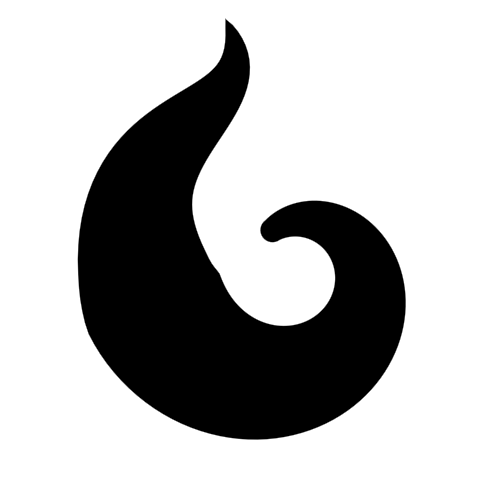
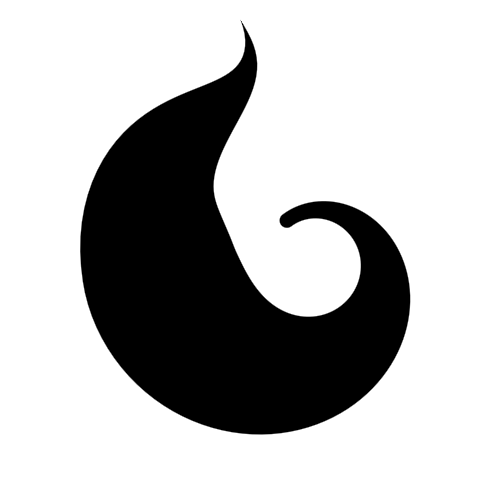
Icone: l'Aura senza gomiti, lo scudo col muro uniforme, le metafore rilette
Bru: «impegnati al massimo per definire ancora meglio le nostre icone»

Viste in grande (a 640 pixel, sulla griglia):
- Aura: lo spessore del tratto cresceva e calava con uno spigolo, e lo
  spigolo diventava un gomito nel contorno dove la coda entra nel ricciolo.
  Ora sale e scende liscio (un seno alla 1,5 sulla coda, uno smoothstep sul
  ricciolo); la punta della coda si affina come una pennellata, la fine del
  ricciolo è tonda e sottile. Ricentrata.
- Difesa: sotto le feritoie il muro era 14 contro i 10 dei fianchi, ora T.
- Forza mentale: l'anello disegnato con 96 lati misura 5 esatti.

docs/icone_statistiche.md riporta anche la distanza più corta fra due
contorni, grande e piccola. docs/simboli.md §7.5 rilegge le metafore con le
ricerche sul riconoscimento (McDougall e Isherwood: all'inizio conta la
distanza semantica, poi la familiarità) e con le convenzioni dei giochi.

Fuori dal commit, una tavola di alternative per la Velocità (galloni, freccia
con l'eco) accanto alla saetta degli status: il fulmine resta il più forte.

Prova delle icone: i sedici sabotaggi presi tutti. Suite verde.

Claude-Session: https://claude.ai/code/session_01AE7uzpDH1Lo1PHb29aXJxZ

diff --git a/docs/simboli.md b/docs/simboli.md
@@ -724,6 +724,14 @@ La prova `prova_le_icone_si_reggono` controlla tutto questo:
   resta qualche unità fuori: la punta conta nell'ingombro più di quanto pesi.
 - L'Attacco è il più sparso (raggio +7%): una spada di sbieco con la sua
   falce occupa la diagonale. Più piccola diventava tozza; ho scelto la forma.
+- **Le rifiniture viste in grande** (a 640 pixel, sulla griglia):
+  - L'Aura aveva un gomito dove la coda entra nel ricciolo: lo spessore
+    cresceva e calava con uno spigolo, e lo spigolo passava nel contorno. Ora
+    sale e scende con curve lisce, e la punta della coda si affina come una
+    pennellata.
+  - Lo scudo aveva in cima, sotto le feritoie, un muro di 14 contro i 10 dei
+    fianchi: ora è 10.
+  - L'anello della lanterna è disegnato con più lati, così misura 5 esatti.
 - **Due somiglianze col resto del gioco, da decidere.** In combattimento i
   riquadri degli status (`scripts/combattimento/IconeStato.gd`, dal disegno di
   Bru) usano la fiamma per «in fiamme» e la saetta per «lentezza», «frastornato»
@@ -735,3 +743,40 @@ La prova `prova_le_icone_si_reggono` controlla tutto questo:
 
   Sono contesti diversi (la scheda e la crescita da una parte, la vita in
   battaglia dall'altra), ma lo stesso gioco.
+
+### 7.5 Le metafore, rilette con le ricerche sul riconoscimento
+
+- **McDougall e Isherwood (2009, *Behavior Research Methods*).** All'inizio
+  conta la **distanza semantica**, cioè quanto l'icona è vicina a quello che
+  vuol dire: spiega fino al 55% di quanto bene si riconosce. Con l'uso conta
+  di più la familiarità.
+- **Zheng, Silvennoinen e Kujala (Jyväskylä).** La concretezza è quello che
+  avvicina di più un'icona al suo significato; la bellezza aiuta poco l'uso.
+- **Le convenzioni dei giochi** (Improbable Island, OpenGameArt, Inkwell):
+  - cuore per la vita, spada per l'attacco, scudo per la difesa;
+  - per la velocità il classico è lo stivale alato (o le impronte);
+  - per l'intelligenza e la volontà non c'è un segno fisso.
+
+| statistica | la nostra figura | distanza dal significato | perché va bene lo stesso |
+|---|---|---|---|
+| Vita | cuore | vicinissima | la convenzione più forte che c'è |
+| Attacco | spada | vicina | la convenzione |
+| Difesa | scudo | vicina | la convenzione |
+| Velocità | fulmine | media (il classico è lo stivale alato) | il fulmine era già nel gioco per la velocità; la scia dice il movimento |
+| Intelligenza | occhio con serratura | media | nel gioco è la fuga: vedere la via d'uscita |
+| Forza mentale | lanterna | lontana | si impara; e nella scheda il nome sta sempre accanto all'icona |
+| Fattore | fuoco con l'emblema | lontana | è un concetto solo di Carnivalz: nessuna icona nota lo dice |
+| Maestria | corona con la barra | media | la corona è la maestria; la barra lega il segno al dominio |
+| Aura | ricciolo con la coda | lontana | l'energia che si spende; lo hitodama dà al segno una storia |
+
+Le ricerche dicono che le figure lontane si imparano con l'uso. Nella scheda e
+nella crescita il nome sta sempre accanto all'icona: l'icona deve farsi
+riconoscere al secondo sguardo, non spiegarsi da sola. Le tre statistiche che
+si guardano di più (vita, attacco, difesa) sono anche quelle con le figure più
+vicine.
+
+**I contorni e i pieni.** Le regole dei set chiedono uno stile solo: o tratto
+o pieno. Le nostre sono pieni coi tagli. Dove l'oggetto ha un bordo (l'occhio,
+lo scudo, la lanterna) il bordo è spesso T, sempre lo stesso: è il pieno di un
+oggetto che ha un bordo, non un'icona a tratto. La lanterna ha i montanti
+spessi T e i traversi spessi C, come i telai veri.

diff --git a/docs/icone_statistiche.md b/docs/icone_statistiche.md
@@ -22,17 +22,17 @@ taglio.
 
 | icona | le due figure | pienezza | dalla media | raggio | dalla media | centro visivo | ingombro (unità) |
 |---|---|---|---|---|---|---|---|
-| Punti vita | il cuore + la cicatrice cucita | 0.311 | +4.8% | 26.0 | -3.4% | +0.1, -1.6 | da 11.0,17.0 a 89.0,87.0 |
-| Attacco | la spada + il fendente | 0.278 | -6.4% | 28.9 | +7.2% | -0.6, -1.6 | da 12.0,10.5 a 93.7,91.9 |
-| Difesa | lo scudo + i merli | 0.293 | -1.3% | 27.8 | +3.3% | +0.0, -2.4 | da 20.0,10.0 a 80.0,92.0 |
-| Velocità | il fulmine + la sua eco | 0.305 | +2.9% | 25.3 | -6.0% | +1.3, -3.5 | da 11.0,8.0 a 91.8,96.0 |
-| Intelligenza | l'occhio + la serratura | 0.311 | +4.9% | 27.1 | +0.6% | +0.0, -0.1 | da 4.0,20.0 a 96.0,80.0 |
-| Forza mentale | la lanterna + il fuoco | 0.284 | -4.3% | 28.1 | +4.3% | +0.0, +0.7 | da 21.0,4.0 a 79.0,91.0 |
-| Fattore | il fuoco + l'emblema | 0.294 | -1.0% | 25.2 | -6.4% | +1.0, +1.5 | da 23.1,4.0 a 76.9,92.0 |
-| Maestria del dominio | la corona + la barra del dominio | 0.308 | +3.8% | 27.3 | +1.3% | +0.0, -1.9 | da 9.0,9.0 a 91.0,80.0 |
-| Aura | il vortice + la scia | 0.286 | -3.5% | 26.7 | -1.0% | -1.5, +3.5 | da 16.2,4.0 a 84.5,91.6 |
+| Punti vita | il cuore + la cicatrice cucita | 0.311 | +5.4% | 26.0 | -3.0% | +0.1, -1.6 | da 11.0,17.0 a 89.0,87.0 |
+| Attacco | la spada + il fendente | 0.278 | -5.9% | 28.9 | +7.7% | -0.6, -1.6 | da 12.0,10.5 a 93.7,91.9 |
+| Difesa | lo scudo + i merli | 0.281 | -4.8% | 27.7 | +3.4% | +0.0, -2.4 | da 20.0,10.0 a 80.0,92.0 |
+| Velocità | il fulmine + la sua eco | 0.305 | +3.4% | 25.3 | -5.6% | +1.3, -3.5 | da 11.0,8.0 a 91.8,96.0 |
+| Intelligenza | l'occhio + la serratura | 0.311 | +5.5% | 27.1 | +1.0% | +0.0, -0.1 | da 4.0,20.0 a 96.0,80.0 |
+| Forza mentale | la lanterna + il fuoco | 0.284 | -3.7% | 28.1 | +4.7% | +0.0, +0.7 | da 21.0,4.0 a 79.0,91.0 |
+| Fattore | il fuoco + l'emblema | 0.294 | -0.4% | 25.2 | -6.0% | +1.0, +1.5 | da 23.1,4.0 a 76.9,92.0 |
+| Maestria del dominio | la corona + la barra del dominio | 0.308 | +4.4% | 27.3 | +1.8% | +0.0, -1.9 | da 9.0,9.0 a 91.0,80.0 |
+| Aura | il vortice + la scia | 0.284 | -3.8% | 25.7 | -4.0% | -1.1, +3.0 | da 16.7,4.0 a 85.4,90.5 |
 
-Medie: pienezza 0.297, raggio 26.9.
+Medie: pienezza 0.295, raggio 26.8.
 
 - **Punti vita** (`hp`): il cuore e la cicatrice cucita. Chi tocca il confine e torna: il trauma ricucito è forza.
 - **Attacco** (`attacco`): la spada e il fendente. Il colpo lascia uno squarcio alle spalle della lama.
@@ -43,3 +43,21 @@ Medie: pienezza 0.297, raggio 26.9.
 - **Fattore** (`fattore`): il fuoco e l'emblema. Nella fiamma, il rombo di Carnivalz: il disallineamento che arde in te.
 - **Maestria del dominio** (`maestria_dominio`): la corona e la barra del dominio. La fascia della corona sono i tre segmenti della barra.
 - **Aura** (`aura`): il vortice e la scia. L'energia che spendi sale dal vortice come una fiamma di spirito.
+
+## Le distanze fra i contorni
+
+Per ogni icona, la distanza più corta fra due contorni che non si toccano (in unità; il
+taglio C è 5.0). A misura piena è sempre almeno C; piccola (taglio 9.0 a 16 pixel, 10.0 chiara
+su scuro) almeno tre quarti del taglio.
+
+| icona | a misura piena | piccola | piccola, chiara su scuro |
+|---|---|---|---|
+| Punti vita | 5.17 | 8.0 | 8.66 |
+| Attacco | 5.04 | 8.29 | 8.9 |
+| Difesa | 8.0 | 10.0 | 10.0 |
+| Velocità | 5.0 | 9.0 | 10.0 |
+| Intelligenza | 6.22 | 8.47 | 9.03 |
+| Forza mentale | 5.0 | 8.13 | 8.72 |
+| Fattore | 7.79 | 9.5 | 9.95 |
+| Maestria del dominio | 5.0 | 9.0 | 10.0 |
+| Aura | — | — | — |
